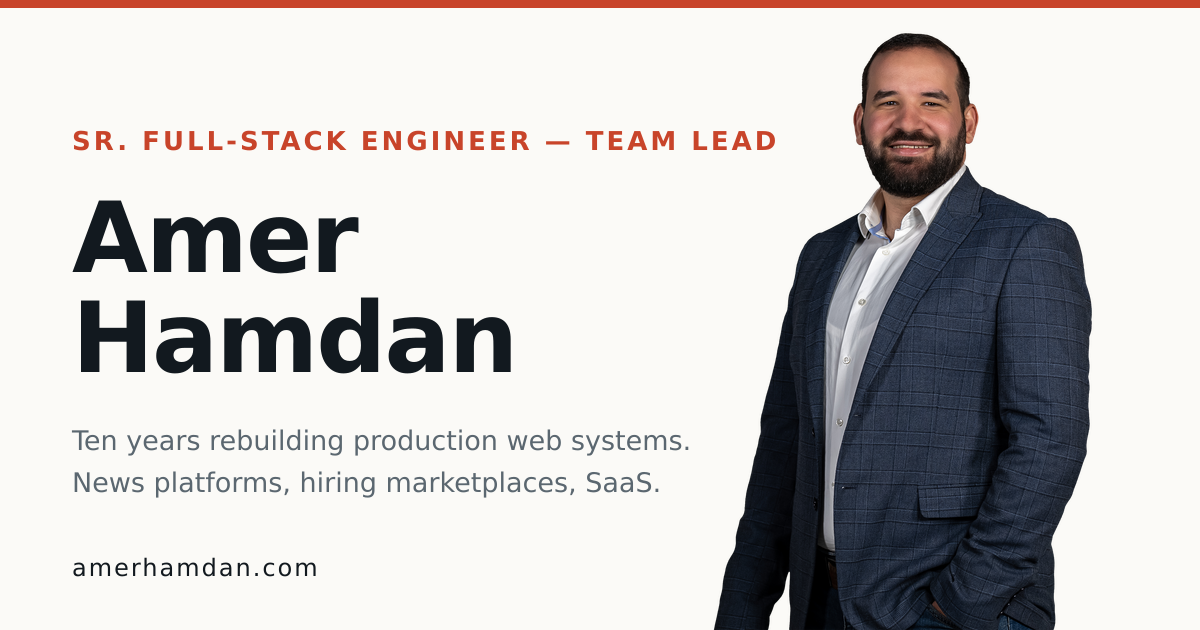
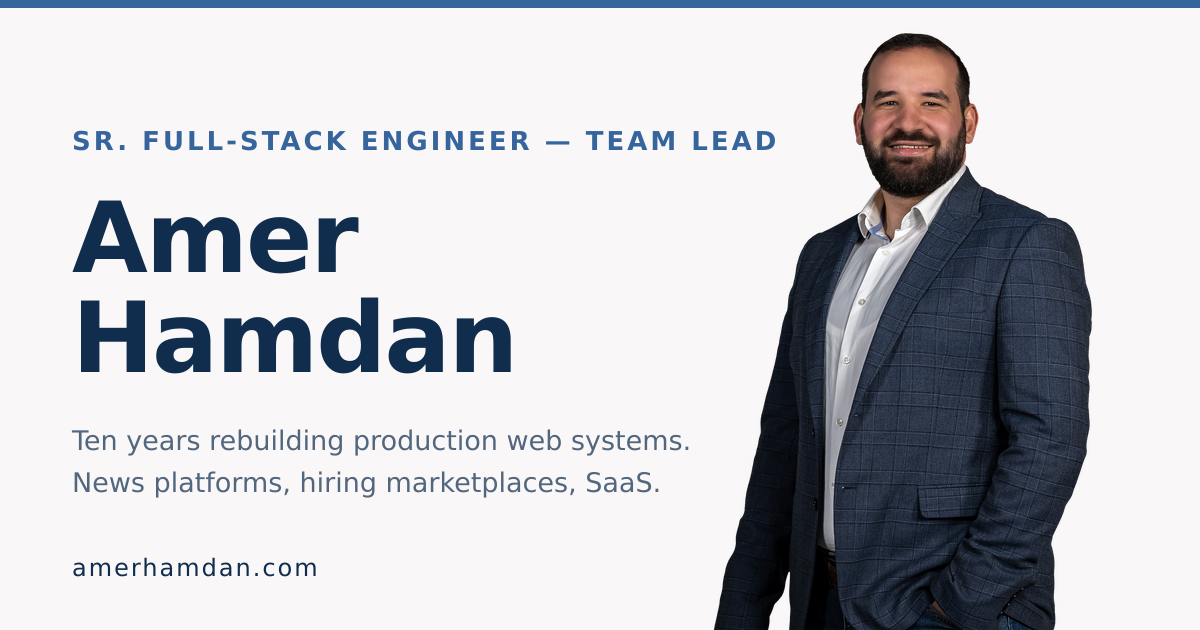
Switch the theme to the blue palette
paper #F9F7F7, wash #DBE2EF, ink #112D4E used exactly as given.

The accent is #36649C — #3F72AF taken 20% toward the navy. The literal value
reads at 3.81:1 against the wash, which fails AA for the small mono labels that
sit on it (the Projects section eyebrow and every project outcome line). This
shade is indistinguishable in use and clears AA everywhere: 5.69 on paper, 4.66
on wash, 5.69 behind button text.

Three values are derived, because four colours cannot cover hairlines, secondary
text, and an accent legible on the navy closing section: rule #BDC7D7, slate
#52667D (5.53:1 on paper, so body copy still passes), flare #95B0D2 (6.24:1 on
navy).

Applied across the site, the print styles, the generated PDF, and the social
card, all of which read their tokens from the same three places.

diff --git a/tailwind.config.js b/tailwind.config.js
@@ -8,14 +8,22 @@ module.exports = {
   theme: {
     extend: {
       colors: {
-        paper: '#FBFAF7',
-        wash: '#F1EEE7',
-        rule: '#DFDBD2',
-        ink: '#12191F',
-        slate: '#5B6770',
-        signal: '#C8442A',
-        // Same accent, lifted for legibility on the ink-coloured closing section.
-        flare: '#F2795C',
+        // The four brand colours, used as given.
+        paper: '#F9F7F7',
+        wash: '#DBE2EF',
+        ink: '#112D4E',
+
+        // #3F72AF, taken 20% toward the navy. The literal value reads at only
+        // 3.81:1 against the wash, which fails AA for the small mono labels that
+        // sit on it; this shade is indistinguishable in use and clears AA
+        // everywhere — 5.69 on paper, 4.66 on wash, 5.69 behind button text.
+        signal: '#36649C',
+
+        // Derived: a palette of four cannot cover hairlines, secondary text, and
+        // an accent legible on the navy section.
+        rule: '#BDC7D7',
+        slate: '#52667D',
+        flare: '#95B0D2',
       },
       fontFamily: {
         display: ['var(--font-display)', 'system-ui', 'sans-serif'],

diff --git a/app/globals.css b/app/globals.css
@@ -32,8 +32,8 @@
   /* Engineering-paper grid. Deliberately near-invisible — it should read as a
      surface, not as a pattern. */
   .grid-paper {
-    background-image: linear-gradient(to right, rgba(18, 25, 31, 0.045) 1px, transparent 1px),
-      linear-gradient(to bottom, rgba(18, 25, 31, 0.045) 1px, transparent 1px);
+    background-image: linear-gradient(to right, rgba(17, 45, 78, 0.06) 1px, transparent 1px),
+      linear-gradient(to bottom, rgba(17, 45, 78, 0.06) 1px, transparent 1px);
     background-size: 28px 28px;
   }
 
